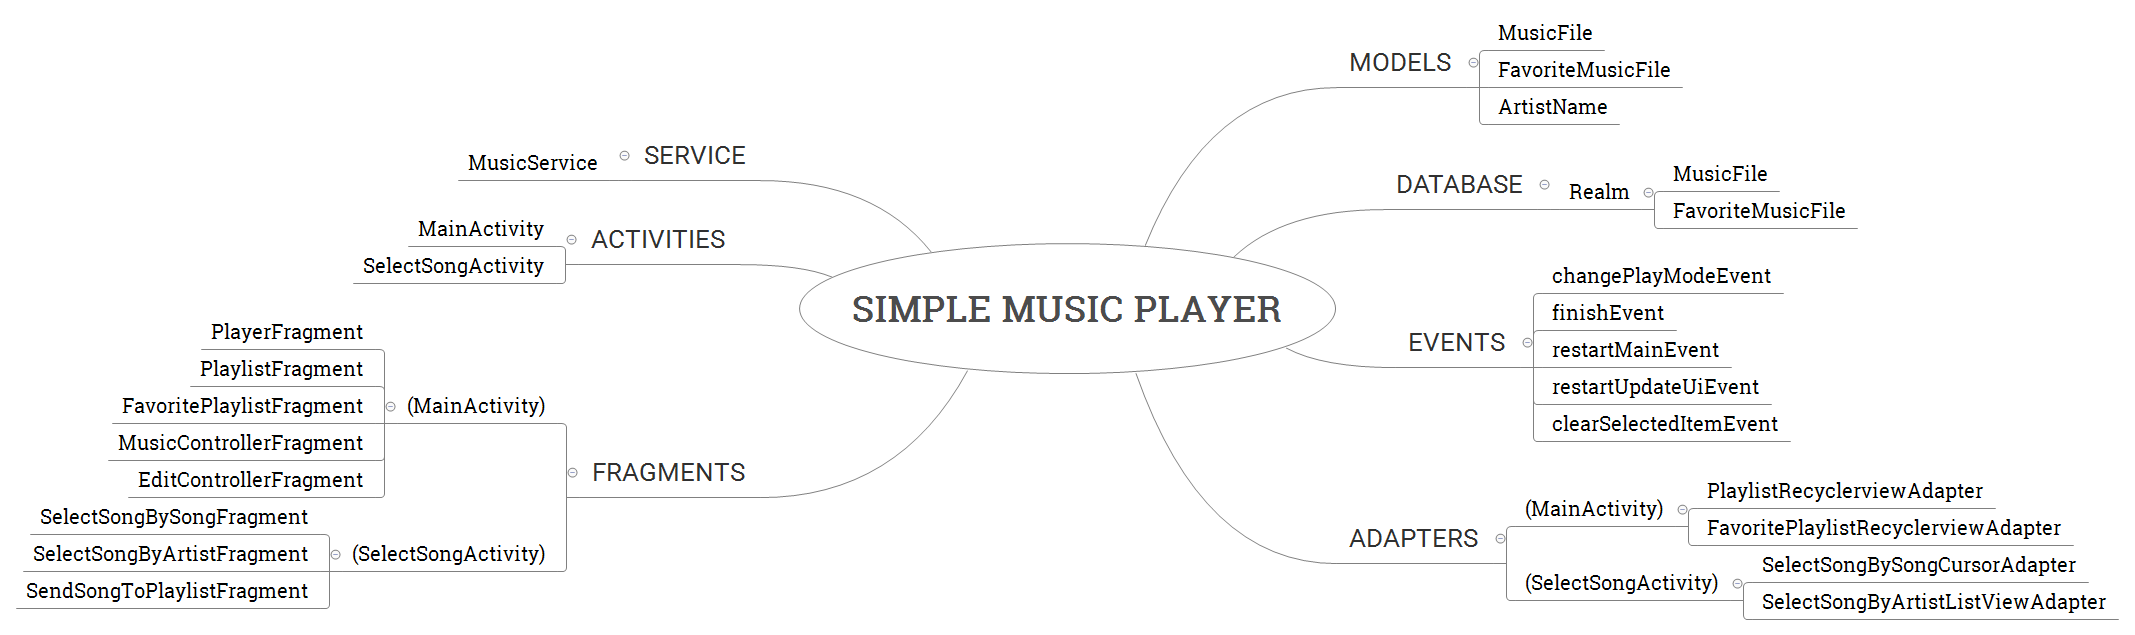
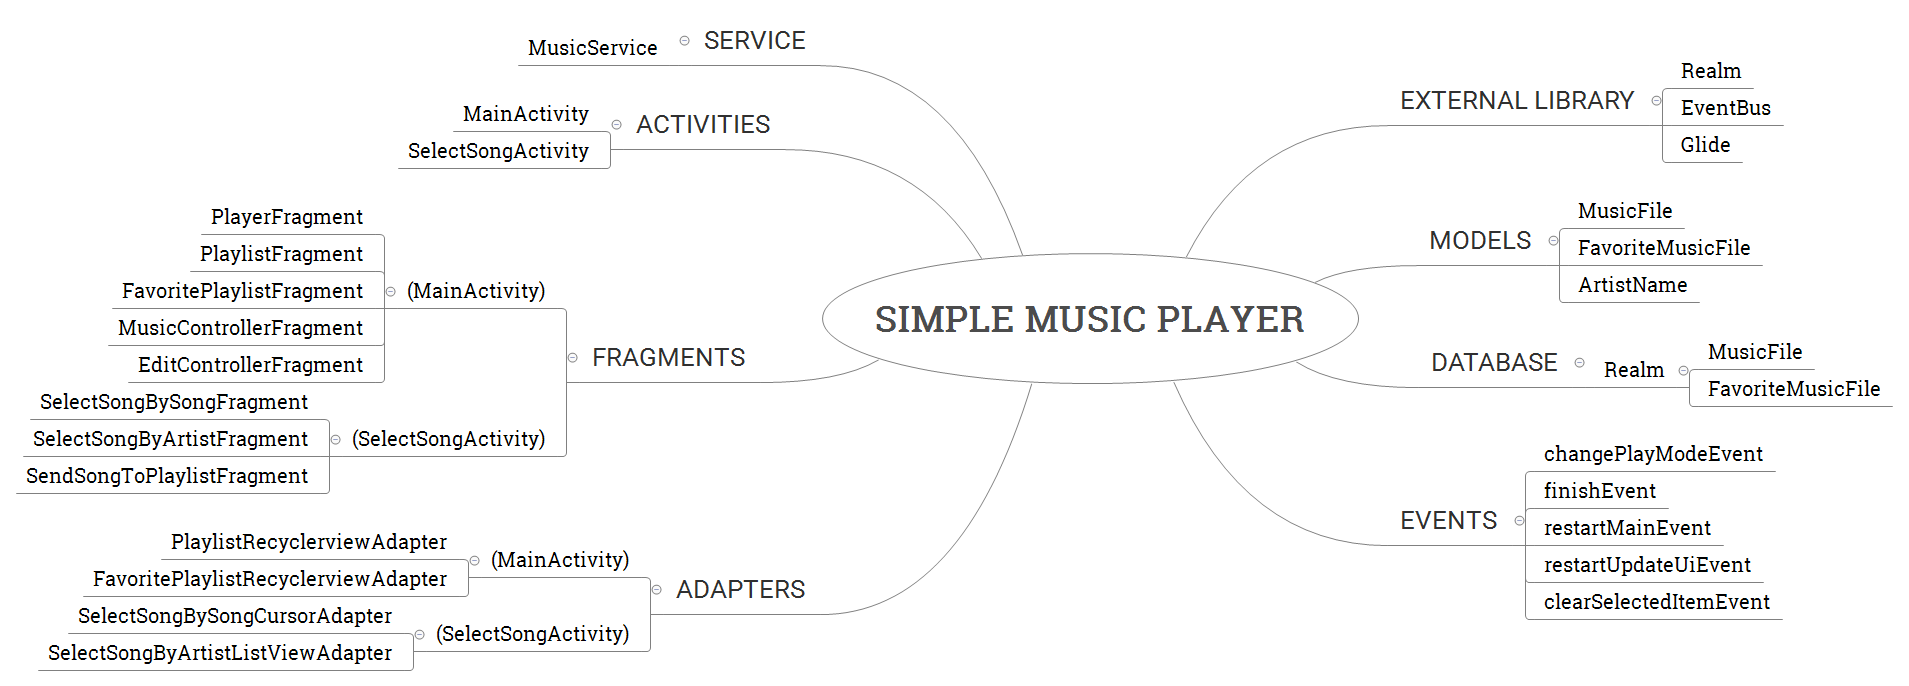
ReadMe수정

diff --git a/README.md b/README.md
@@ -50,13 +50,19 @@
 6. 이전에 재생하던 곡 목록을 실행시 복원
 7. 다른 미디어 플레이어가 재생될 때, 해당 어플에서 재생 중이던 곡 자동 일시 정지
 
-## 6. Credits
 
+
+## 6. Credits
 1. 안드로이드 이벤트 버스
     * greenrobot / EventBus : https://github.com/greenrobot/EventBus
+    
 2. 렘
     * realm : https://github.com/realm
     
+3. 글라이드
+    * bump / glide : https://github.com/bumptech/glide
+    
+
 
 
 ## 7. License
